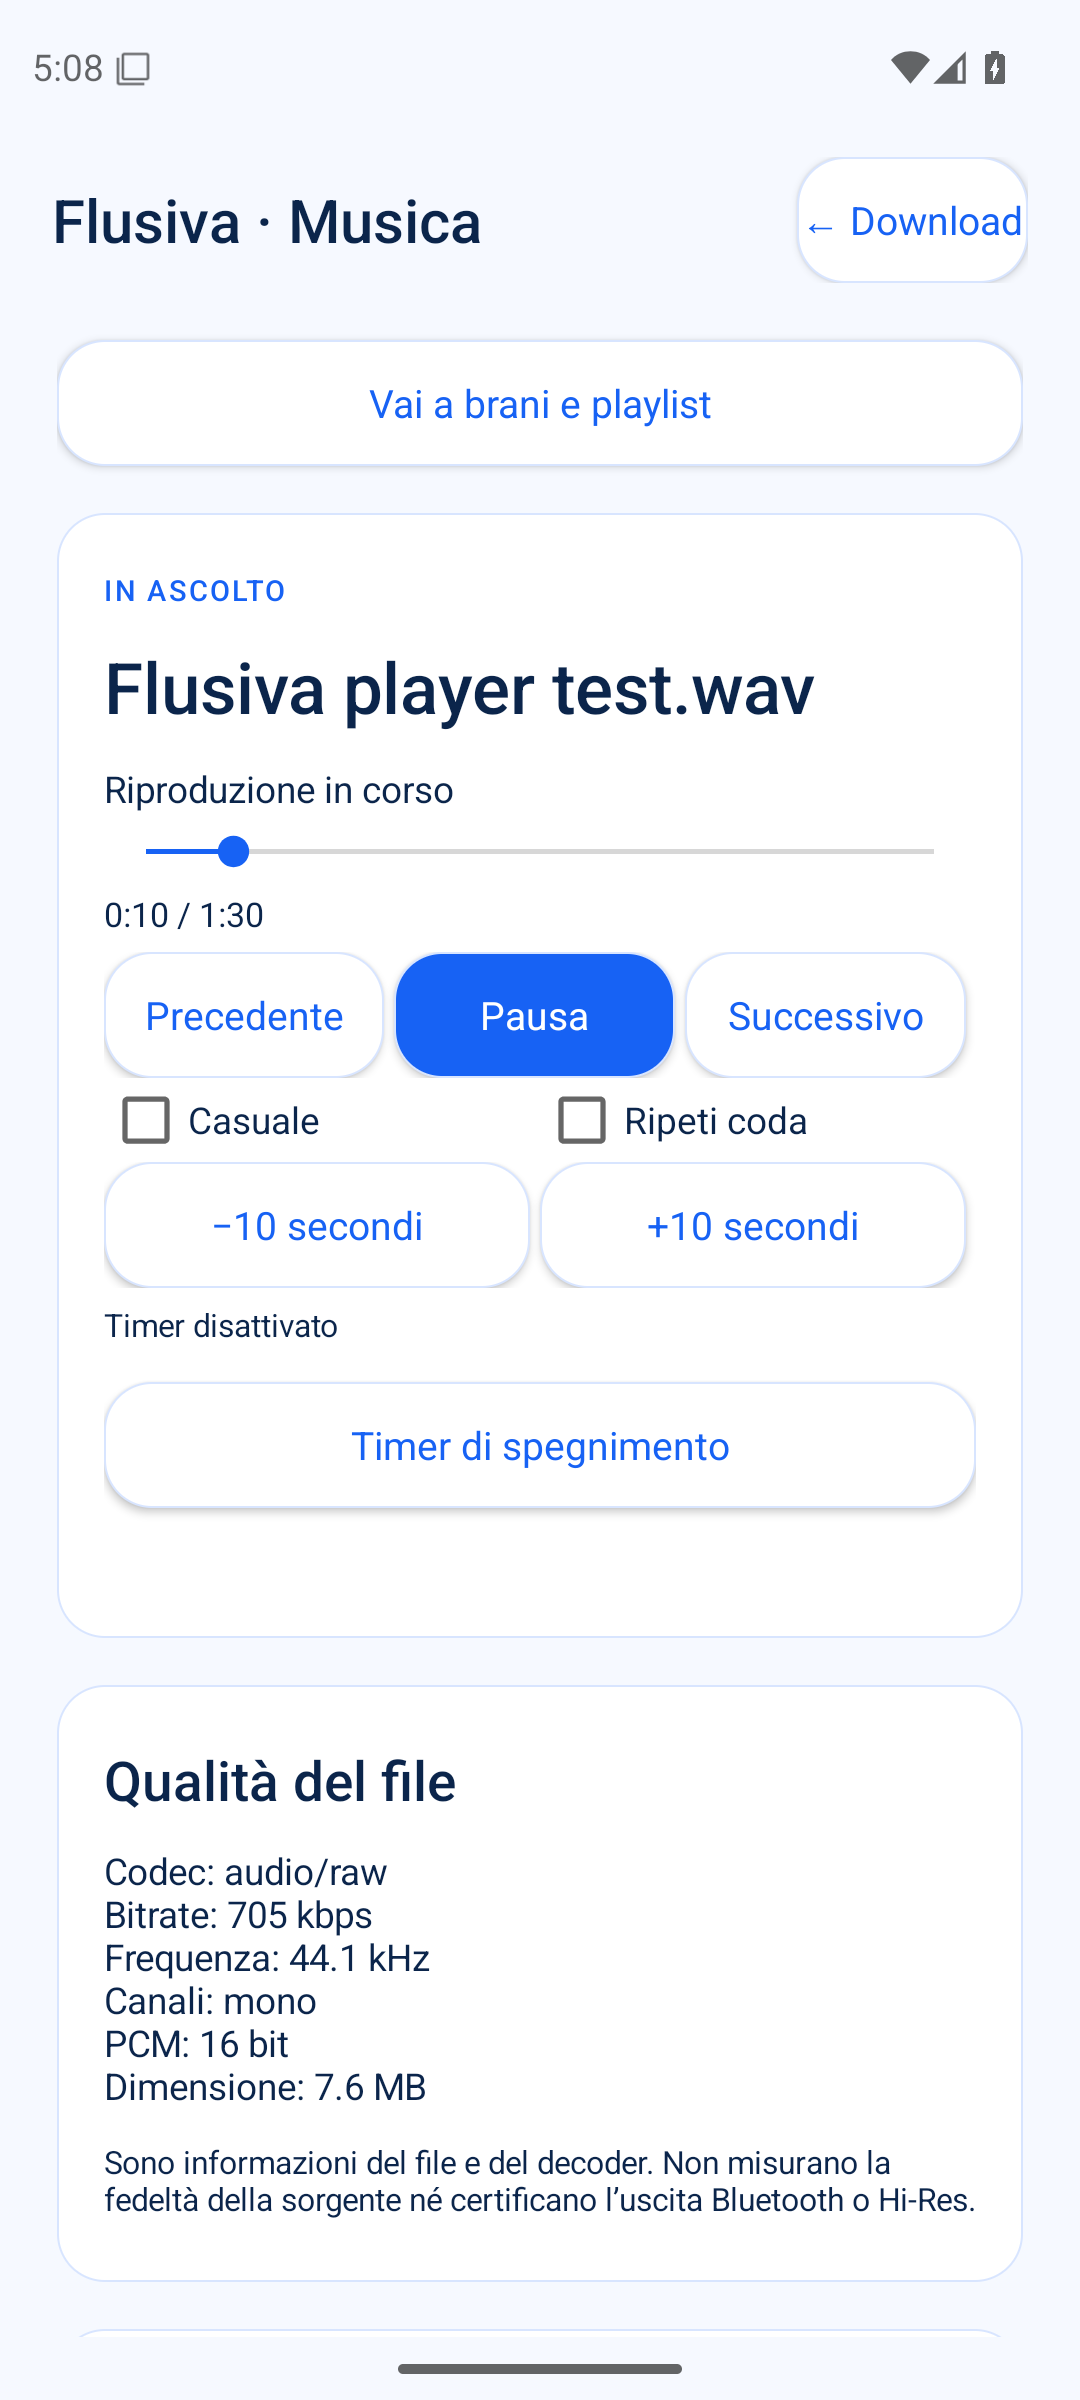
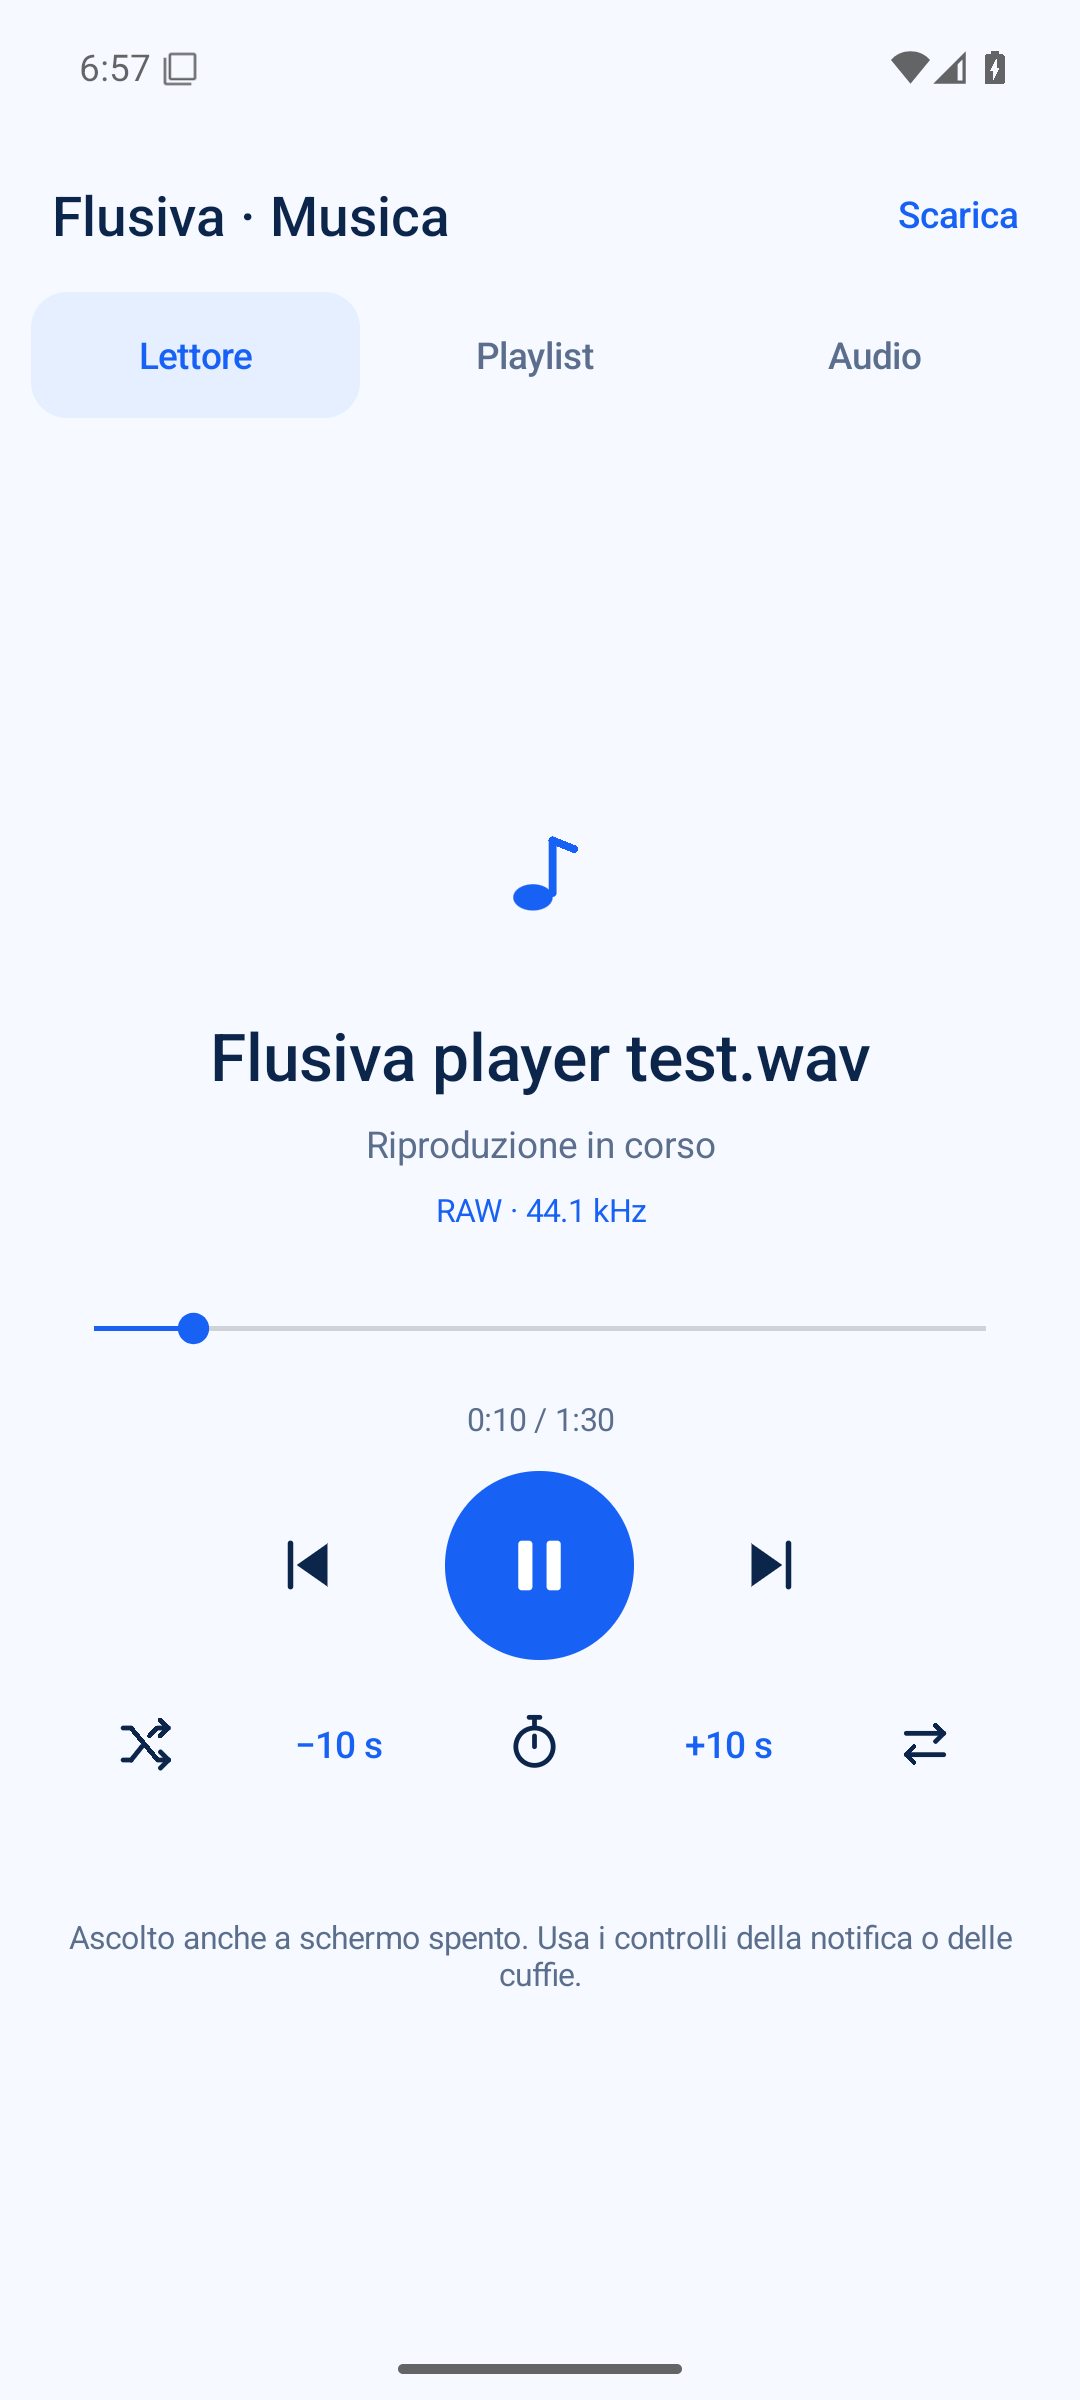
Document verified Android player pages with release screenshots [skip ci]

diff --git a/docs/MUSIC.md b/docs/MUSIC.md
@@ -2,13 +2,19 @@
 
 Dalla **0.7.0**, la navigazione **Musica** apre tre pagine distinte: **Lettore** per ascolto e controlli, **Playlist** per libreria e gestione dei brani, **Audio** per dati di qualità ed equalizzatore. **Scarica** torna alla pagina del downloader. I comandi hanno feedback al tocco, icone e stati selezionati; le impostazioni audio non occupano più la pagina del lettore.
 
-Da **Flusiva 0.6.0 per Android**, aprire **Musica e playlist** dalla schermata principale oppure **Ascolta in Flusiva** dopo un download. Il lettore usa AndroidX Media3 1.11.1 e riproduce i file sul telefono, senza caricarli su un servizio Flusiva. Questa funzione è per Android; la versione desktop mantiene le proprie funzioni di download.
+Aprire **Musica** dalla pagina **Scarica**, oppure **Ascolta in Flusiva** dopo un download. Il lettore usa AndroidX Media3 1.11.1 e riproduce i file sul telefono, senza caricarli su un servizio Flusiva. Questa funzione è per Android; la versione desktop mantiene le proprie funzioni di download.
 
-<p><img src="images/android-music.png" alt="Lettore musicale con dati del file di prova" width="280"> <img src="images/android-equalizer.png" alt="Equalizzatore attivo con bande reali del dispositivo" width="280"></p>
+Schermate reali della versione 0.7.1 su emulatore Android 15: lettore in riproduzione e pagina Audio separata.
+
+<p><img src="images/android-music.png" alt="Pagina Lettore con controlli di riproduzione" width="280"> <img src="images/android-equalizer.png" alt="Pagina Audio con equalizzatore attivo e bande reali del dispositivo" width="280"></p>
+
+Senza un brano selezionato, **Apri libreria** porta alla pagina Playlist. I pulsanti Riproduci, Precedente e Successivo rimangono disabilitati finché non viene scelta una traccia.
+
+<img src="images/android-music-empty.png" alt="Lettore vuoto con comando Apri libreria" width="280">
 
 ## Brani e ascolto
 
-La libreria elenca i file audio creati da Flusiva in Download/Flusiva. **Importa file audio** permette di scegliere altri file con il selettore Android, senza chiedere accesso generale alla memoria. Il selettore deve concedere un accesso permanente al file. MP3, AAC/M4A, FLAC, Ogg/Opus e WAV dipendono dai decoder disponibili sul dispositivo. Il lettore può anche ascoltare la traccia audio di un MP4 aperto da un download.
+La libreria elenca i file audio creati da Flusiva in Download/Flusiva. **Importa** permette di scegliere altri file con il selettore Android, senza chiedere accesso generale alla memoria. Il selettore deve concedere un accesso permanente al file. MP3, AAC/M4A, FLAC, Ogg/Opus e WAV dipendono dai decoder disponibili sul dispositivo. Il lettore può anche ascoltare la traccia audio di un MP4 aperto da un download.
 
 Controlli: riproduci/pausa, posizione nel brano, salti di 10 secondi, precedente/successivo, ordine casuale e ripetizione della coda. Il timer interrompe l’ascolto dopo 10, 30 o 60 minuti ed è annullabile. I tasti volume del telefono regolano il volume multimediale.
 
@@ -20,9 +26,9 @@ La riproduzione continua quando si passa a un’altra app o si spegne lo schermo
 2. Inserire un nome, poi usare **Aggiungi brani** per selezionare i file della libreria.
 3. Premere **Avvia playlist**, oppure toccare un brano per iniziare da quello.
 
-**Gestisci playlist** permette di modificare i brani, rinominare o eliminare la playlist. Tenendo premuto un brano si può spostarlo prima/dopo o rimuoverlo. Eliminare una playlist o rimuovere un riferimento non elimina i file audio. La modifica di una playlist salvata si applica quando la si avvia nuovamente; la coda già in ascolto rimane quella avviata.
+**Gestisci** permette di modificare i brani, rinominare o eliminare la playlist. Tenendo premuto un brano si può spostarlo prima/dopo o rimuoverlo. Eliminare una playlist o rimuovere un riferimento non elimina i file audio. La modifica di una playlist salvata si applica quando la si avvia nuovamente; la coda già in ascolto rimane quella avviata.
 
-<img src="images/android-playlists.png" alt="Selezione dei file da aggiungere alla playlist" width="280">
+<img src="images/android-playlists.png" alt="Pagina Playlist con il file di prova nella libreria" width="280">
 
 Fino a 50 playlist, con massimo 500 riferimenti per playlist. I riferimenti sono URI locali `content://`, salvati in JSON nelle preferenze dell’app, senza database e senza duplicare i file. Nome e ordine rimangono dopo la riapertura e gli aggiornamenti dell’app. Disinstallazione o cancellazione dei dati dell’app rimuovono le playlist; spostare o cancellare un file può rendere il relativo riferimento non più accessibile.
 

diff --git a/docs/VALIDATION.md b/docs/VALIDATION.md
@@ -1,9 +1,11 @@
 # Verifiche della prima versione
 
-## Interfaccia Android 0.7.0
+## Interfaccia Android 0.7.1
 
 * Compilazione locale e Android Lint senza errori; test JVM esistenti superati.
 * Nuovi controlli su emulatore per riconoscimento della fonte YouTube, comando Scarica MP4 da YouTube, separazione tra Audio e Lettore e cambio delle icone Riproduci/Pausa dopo il tocco.
+* Sul tag `v0.7.1` i 3 test strumentati su Android 15 sono riusciti, compresa la riproduzione a schermo spento. Verificati anche lettore vuoto, controllo Riproduci disabilitato e accesso alla libreria. Screenshot finali di Scarica, Lettore, Playlist, Audio e Impostazioni ispezionati e copiati in `docs/images`.
+* Build e verifiche dei pacchetti Windows, Linux, Mac Intel e Mac Apple Silicon riuscite nella stessa esecuzione [GitHub Actions](https://github.com/CosmoNetinfo/flusiva/actions/runs/45563876545).
 * Libreria virtualizzata con ListView e righe riutilizzate. I salvataggi delle playlist e le letture dei file avvengono fuori dal thread UI; cambiare una playlist non esegue una nuova scansione dei file.
 * L’aggiornamento del cursore è locale alla pagina Lettore visibile. Informazioni del file e bande EQ vengono aggiornate quando cambiano; gli snapshot identici non vengono notificati di nuovo.
 * Non è stato misurato un confronto di latenza su un telefono fisico. Il comportamento reale viene verificato su emulatore insieme a playlist e riproduzione a schermo spento.

diff --git a/docs/ANDROID.md b/docs/ANDROID.md
@@ -26,7 +26,7 @@ In **Impostazioni → Aggiornamenti** si controlla la nuova versione e si apre l
 
 ## Musica e playlist dalla 0.6
 
-Aprire **Musica e playlist** per ascoltare i file scaricati o importati, creare playlist persistenti e continuare l’ascolto in background. Include dati di qualità del file, decoder, equalizzatore del dispositivo e timer. [Guida del lettore musicale](MUSIC.md).
+Aprire **Musica** per ascoltare i file scaricati o importati, creare playlist persistenti e continuare l’ascolto in background. Le pagine **Lettore**, **Playlist** e **Audio** separano riproduzione, libreria e impostazioni audio. Include dati di qualità del file, decoder, equalizzatore del dispositivo e timer. [Guida del lettore musicale](MUSIC.md).
 
 ## Compilazione del progetto
 

diff --git a/.github/RELEASE_NOTES.md b/.github/RELEASE_NOTES.md
@@ -10,7 +10,7 @@
 
 ### Musica e playlist su Android
 
-* Apri **Musica e playlist** o scegli **Ascolta in Flusiva** dopo un download.
+* Apri **Musica** dalla pagina **Scarica**, oppure scegli **Ascolta in Flusiva** dopo un download.
 * Crea, rinomina e modifica playlist dei file scaricati o importati. Riordina i brani tenendoli premuti; rimuovere un riferimento non elimina il file.
 * Continua l’ascolto con lo schermo spento, usando i controlli della notifica o delle cuffie. Posizione, precedente/successivo, casuale, ripetizione e timer.
 * Visualizza codec, bitrate audio, frequenza, canali e decoder. I dati assenti non vengono inventati; non sono una misura della qualità della sorgente o dell’uscita Bluetooth.
